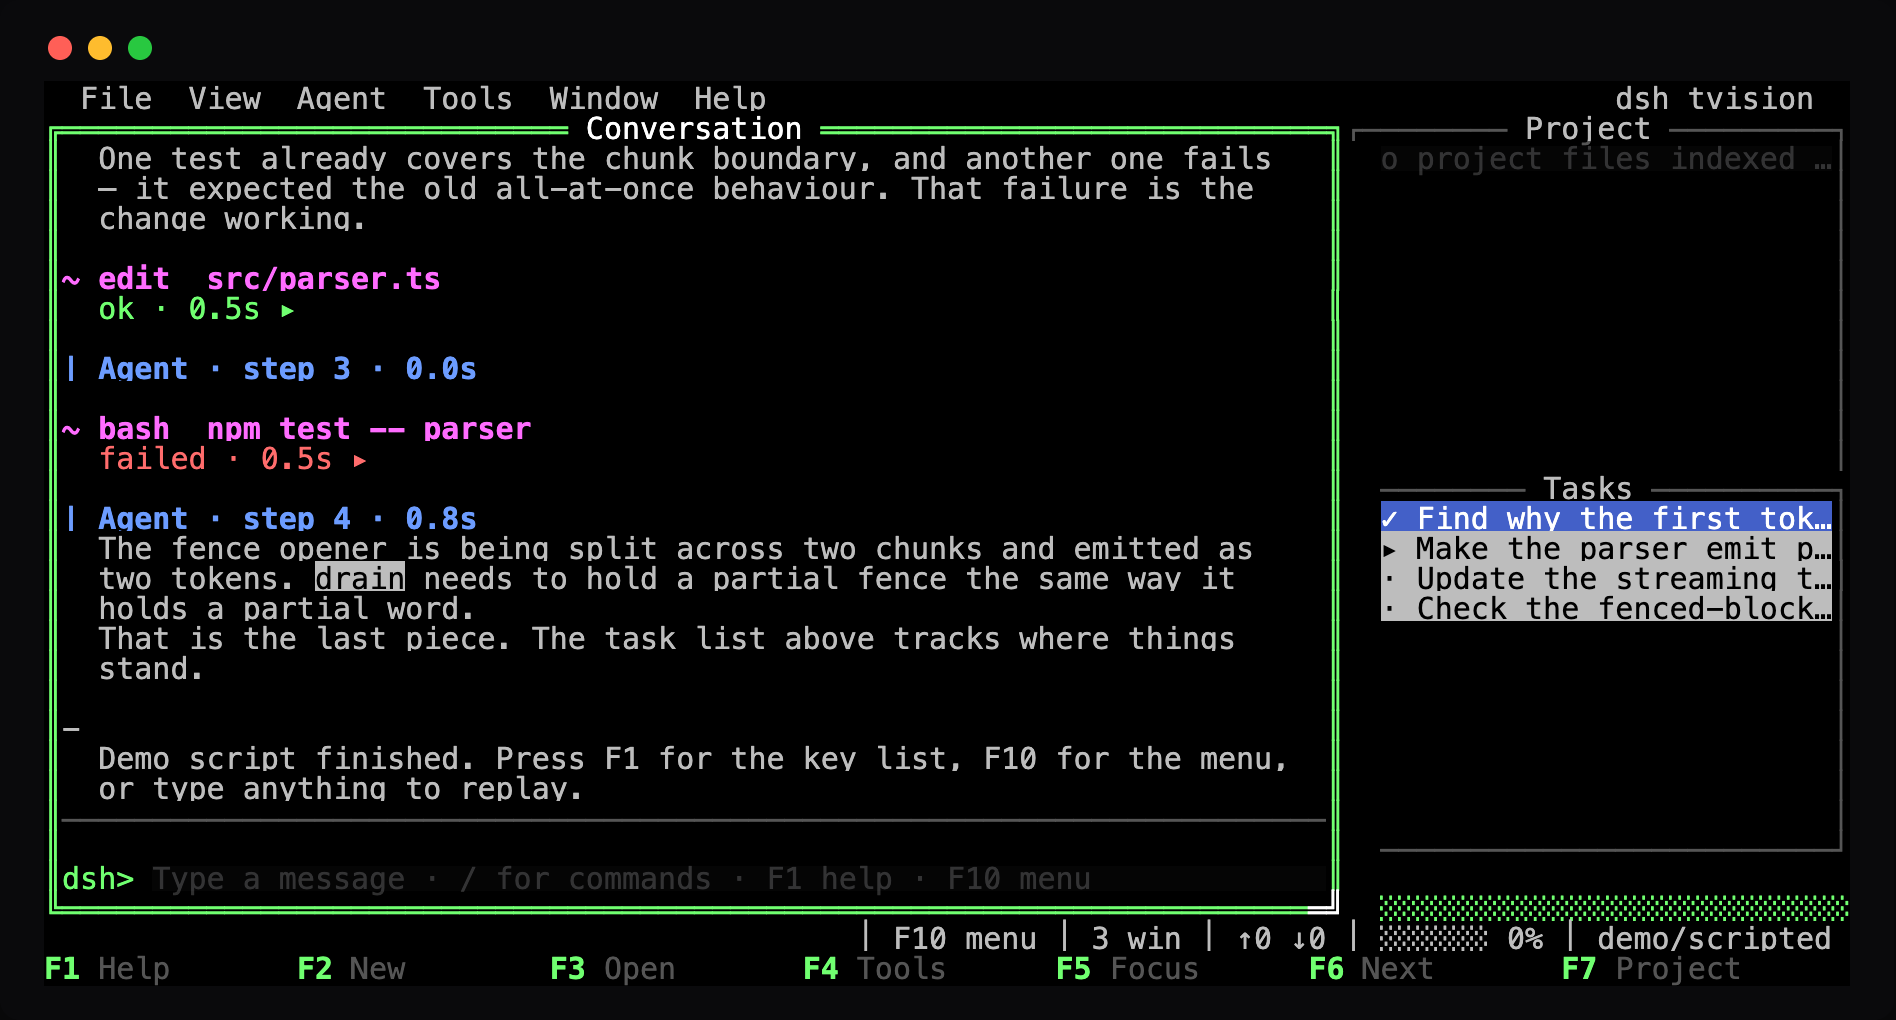
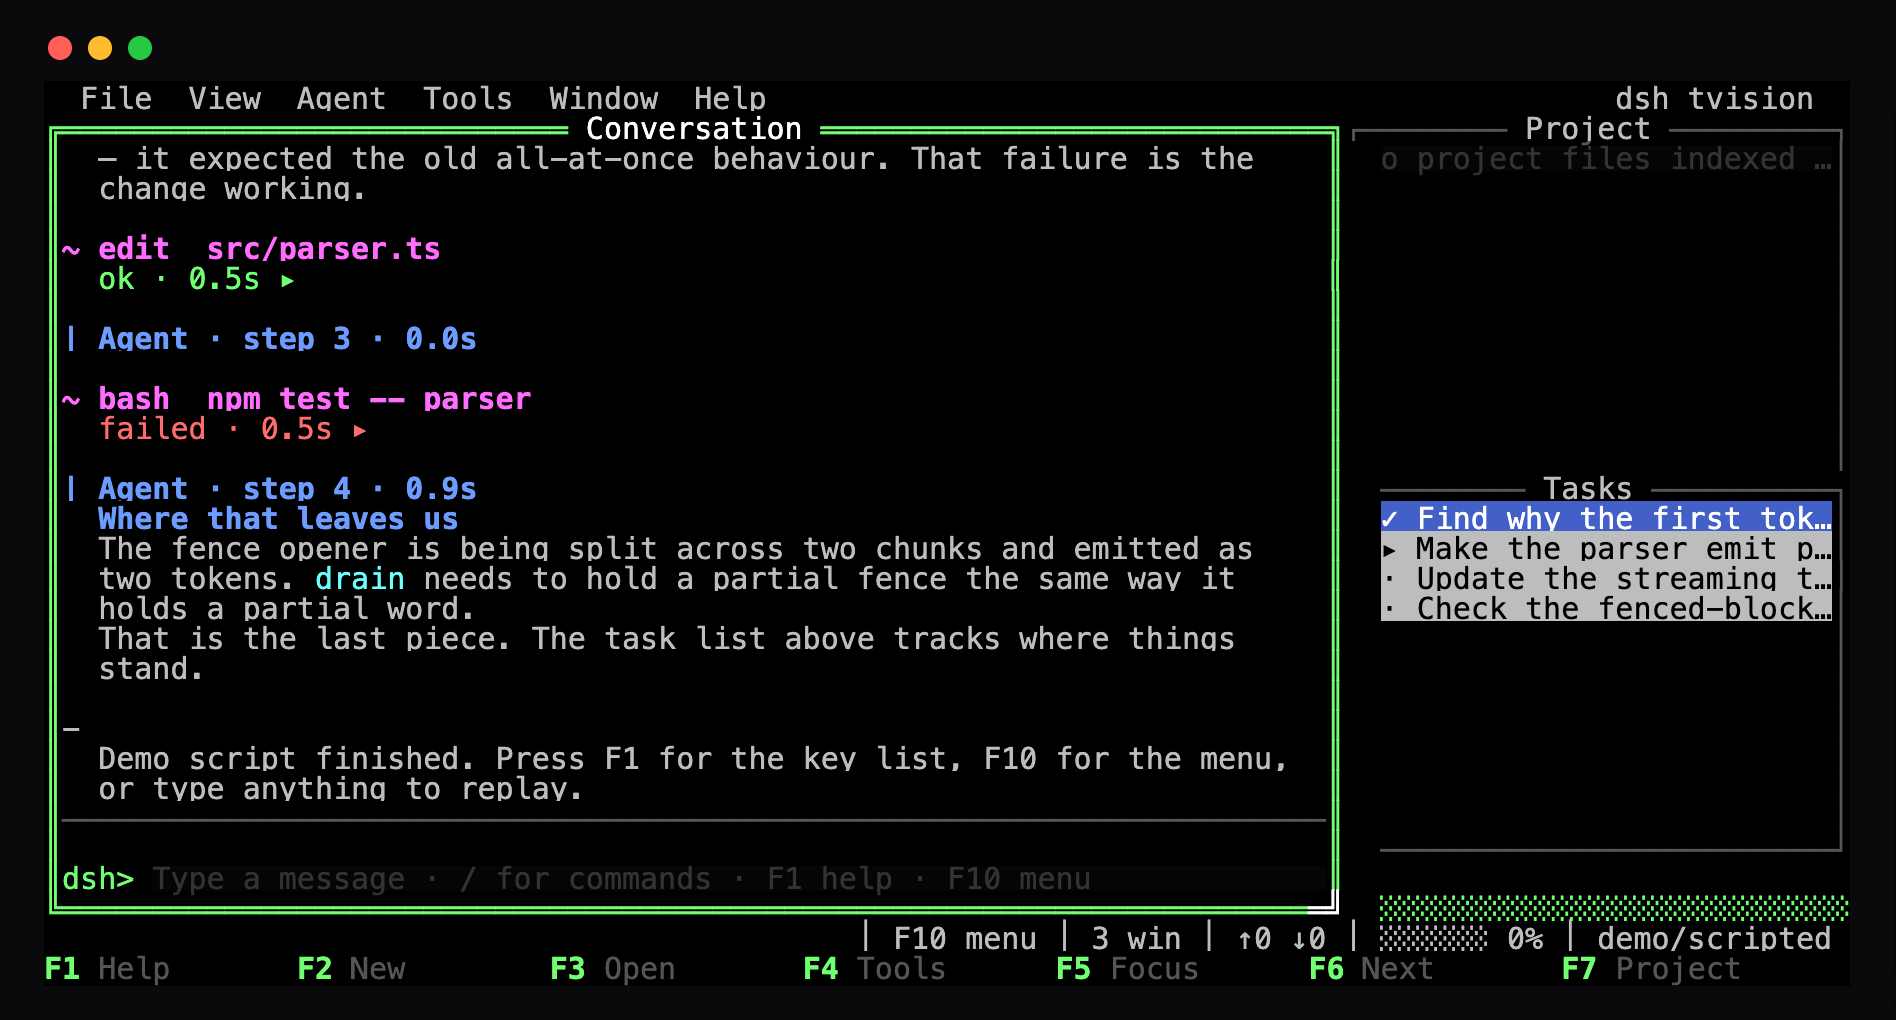
feat: markdown headings render as a colour ladder, not literal hashes
The old renderer styled h1/h2 with body-white bold and left h3+ carrying
their literal `###` on screen, so a heading was indistinguishable from a
bold lead-in beneath it and the marker read as unparsed markup. Headings
now wear a dedicated palette role — each skin picks its own structural
colour — descending by attribute: `##` underlines as a section, `###`
stands plain, deeper levels dim. Markers are dropped at every level, and
a heading mid-text gains a blank line before it.

The demo and the wire mock now carry headings so the recorded stills and
the README gif show the ladder end to end.

Changed region(s): [[0.0311, 0.1216, 0.6846, 0.5167], [0.1556, 0.5471, 0.2178, 0.5775]]

diff --git a/src/demo.ts b/src/demo.ts
@@ -85,7 +85,7 @@ type Beat =
 const SCRIPT: readonly Beat[] = [
   { kind: 'reasoning', text: 'They want the parser to stream. Let me look at how it buffers first. ' },
   { kind: 'reasoning', text: 'The whole document is read before the first token, so nothing can be emitted early.' },
-  { kind: 'text', text: "Right — the parser buffers the entire document before it emits anything, which is why the **first token** never arrives until the whole file is read.\n\nHere is the shape of the fix:\n\n```ts\nfor await (const chunk of source) {\n  buffer += chunk\n  for (const token of drain(buffer)) yield token\n}\n```\n\nThe plan, in order:\n\n1. read chunks as they arrive\n2. `drain(buffer)` emits complete tokens\n3. hold a partial token across a chunk boundary\n\n> A fence that straddles a chunk boundary is the hard part.\n\nLet me check what the tests expect before changing it.\n" },
+  { kind: 'text', text: "Right — the parser buffers the entire document before it emits anything, which is why the **first token** never arrives until the whole file is read.\n\nHere is the shape of the fix:\n\n```ts\nfor await (const chunk of source) {\n  buffer += chunk\n  for (const token of drain(buffer)) yield token\n}\n```\n\n## The plan\n\n1. read chunks as they arrive\n2. `drain(buffer)` emits complete tokens\n3. hold a partial token across a chunk boundary\n\n> A fence that straddles a chunk boundary is the hard part.\n\nLet me check what the tests expect before changing it.\n" },
   { kind: 'tool', name: 'bash', args: '{"command":"npm test -- parser","timeout":120000}', result: 'PASS tests/parser.spec.ts\n  ✓ emits a token as soon as one is complete (12 ms)\n  ✓ holds a partial token across a chunk boundary (3 ms)\n  ✗ streams a fenced block (8 ms)\n\nTests: 1 failed, 2 passed, 3 total' },
   { kind: 'text', text: '\nOne test already covers the chunk boundary, and another one fails — it expected the old all-at-once behaviour. That failure is the change working.\n' },
   { kind: 'tool', name: 'edit', args: '{"path":"src/parser.ts","old_string":"const whole = await readAll(source)","new_string":"for await (const chunk of source)"}', result: 'Edited src/parser.ts', diff: ['@@ -42,7 +42,9 @@ export async function parse(source) {', '-  const whole = await readAll(source)', '-  return tokenize(whole)', '+  for await (const chunk of source) {', '+    buffer += chunk', '+    yield* drain(buffer)', '+  }', ' }'] },
@@ -96,7 +96,7 @@ const SCRIPT: readonly Beat[] = [
     { text: 'Check the fenced-block case', status: 'pending' },
   ] },
   { kind: 'tool', name: 'bash', args: '{"command":"npm test -- parser"}', result: 'Error: 1 test failed\n  ✗ streams a fenced block (8 ms)\n    expected ["```", "ts"] to equal ["```ts"]' },
-  { kind: 'text', text: '\nThe fence opener is being split across two chunks and emitted as two tokens. `drain` needs to hold a partial fence the same way it holds a partial word.\n\nThat is the last piece. The task list above tracks where things stand.\n' },
+  { kind: 'text', text: '\n### Where that leaves us\n\nThe fence opener is being split across two chunks and emitted as two tokens. `drain` needs to hold a partial fence the same way it holds a partial word.\n\nThat is the last piece. The task list above tracks where things stand.\n' },
   { kind: 'notice', text: 'Demo script finished. Press F1 for the key list, F10 for the menu, or type anything to replay.' },
 ]
 

diff --git a/src/kit/skin.ts b/src/kit/skin.ts
@@ -114,6 +114,8 @@ export interface Palette {
   assistantLabel: Pair
   /** Transcript: ordinary assistant prose. */
   bodyText: Pair
+  /** Transcript: markdown section headings. */
+  heading: Pair
   /** Transcript: the model's reasoning. */
   reasoning: Pair
   /** Transcript: tool-call header rows. */
@@ -159,7 +161,7 @@ export const PALETTE_ROLES = [
   'inputFrame', 'inputFrameActive', 'inputBody', 'inputPrompt', 'inputHint',
   'dialogStatic', 'dialogFocused', 'dialogDefault',
   'listNormal', 'listFocused', 'listSelected', 'listDisabled',
-  'userLabel', 'assistantLabel', 'bodyText', 'reasoning',
+  'userLabel', 'assistantLabel', 'bodyText', 'heading', 'reasoning',
   'toolHeader', 'toolBody', 'toolRunning', 'toolSuccess', 'toolError',
   'diffAdded', 'diffRemoved', 'diffMeta', 'code', 'notice', 'warning', 'error',
   'accent', 'searchHit', 'searchHitDim',
@@ -204,7 +206,8 @@ export function resolvePalette(skin: Skin): ResolvedPalette {
     const pair = skin.palette[role]
     const style: Style = { fg: pair.fg, bg: pair.bg }
     if (role === 'menuShortcut' || role === 'statusKey' || role === 'userLabel'
-      || role === 'assistantLabel' || role === 'toolHeader' || role === 'accent') {
+      || role === 'assistantLabel' || role === 'toolHeader' || role === 'accent'
+      || role === 'heading') {
       style.bold = true
     }
     if (role === 'reasoning' || role === 'inputHint' || role === 'menuDisabled'
@@ -272,6 +275,7 @@ export const TURBO_VISION: Skin = {
     userLabel: { fg: 0x55FF55, bg: 0x0000A8 },
     assistantLabel: { fg: 0x55FFFF, bg: 0x0000A8 },
     bodyText: { fg: 0xFFFFFF, bg: 0x0000A8 },
+    heading: { fg: 0x55FFFF, bg: 0x0000A8 },
     reasoning: { fg: 0x8A8A8A, bg: 0x0000A8 },
     toolHeader: { fg: 0xFFFF55, bg: 0x0000A8 },
     toolBody: { fg: 0xAAAAAA, bg: 0x0000A8 },
@@ -341,6 +345,7 @@ export const PHOSPHOR: Skin = {
     userLabel: { fg: 0x99FFBB, bg: 0x001A0A },
     assistantLabel: { fg: 0x66FF99, bg: 0x001A0A },
     bodyText: { fg: 0x33FF66, bg: 0x001A0A },
+    heading: { fg: 0x99FFBB, bg: 0x001A0A },
     reasoning: { fg: 0x22AA44, bg: 0x001A0A },
     toolHeader: { fg: 0x99FFBB, bg: 0x001A0A },
     toolBody: { fg: 0x33FF66, bg: 0x001A0A },
@@ -409,6 +414,7 @@ export const AMBER: Skin = {
     userLabel: { fg: 0xFFE0A0, bg: 0x1A0E00 },
     assistantLabel: { fg: 0xFFD070, bg: 0x1A0E00 },
     bodyText: { fg: 0xFFB000, bg: 0x1A0E00 },
+    heading: { fg: 0xFFE0A0, bg: 0x1A0E00 },
     reasoning: { fg: 0xAA7000, bg: 0x1A0E00 },
     toolHeader: { fg: 0xFFE0A0, bg: 0x1A0E00 },
     toolBody: { fg: 0xFFB000, bg: 0x1A0E00 },
@@ -476,6 +482,7 @@ export const SLATE: Skin = {
     userLabel: { fg: 0x7EE787, bg: 0x15171C },
     assistantLabel: { fg: 0x58A6FF, bg: 0x15171C },
     bodyText: { fg: 0xE6EDF3, bg: 0x15171C },
+    heading: { fg: 0x58A6FF, bg: 0x15171C },
     reasoning: { fg: 0x8B949E, bg: 0x15171C },
     toolHeader: { fg: 0xD2A8FF, bg: 0x15171C },
     toolBody: { fg: 0xA8B1C0, bg: 0x15171C },
@@ -552,6 +559,7 @@ export const ANSI: Skin = {
     userLabel: { fg: 10, bg: 0 },
     assistantLabel: { fg: 12, bg: 0 },
     bodyText: { fg: 7, bg: 0 },
+    heading: { fg: 12, bg: 0 },
     reasoning: { fg: 8, bg: 0 },
     toolHeader: { fg: 13, bg: 0 },
     toolBody: { fg: 7, bg: 0 },

diff --git a/src/views/markdown.ts b/src/views/markdown.ts
@@ -9,7 +9,9 @@
  * conventions terminal renderers converged on (pi's TUI, glamour, Claude
  * Code): structure is expressed with attributes — bold, underline — because
  * attributes survive every skin, and colour is spent where it says something
- * (an inline code span wears the palette's code colour, not an inverse bar).
+ * (an inline code span wears the palette's code colour, not an inverse bar; a
+ * heading wears the palette's heading colour with a descending attribute
+ * ladder, because a bold lead-in in the body must never outrank a heading).
  *
  * Two properties are load-bearing:
  *
@@ -62,6 +64,11 @@ export function markdownRows(
   if (width <= 0) return [{ text: '', segments: [{ text: '', style: base }] }]
   const rows: MdRow[] = []
   for (const block of parseBlocks(text)) {
+    // A heading is a break in the prose; give it a blank line of air unless
+    // it opens the text, where a leading blank would float it off the top.
+    if (block.kind === 'heading' && rows.length > 0) {
+      rows.push({ text: '', segments: [{ text: '', style: base }] })
+    }
     rows.push(...blockRows(block, width, base, palette))
   }
   return rows
@@ -455,11 +462,18 @@ function matchSpan(rest: string, opener: string, before?: string, closeIndexHint
 function blockRows(block: Block, width: number, base: Style, palette: ResolvedPalette): MdRow[] {
   switch (block.kind) {
     case 'heading': {
-      const style = block.level === 1
-        ? { ...base, bold: true, underline: true }
-        : { ...base, bold: true }
-      const source = block.level >= 3 ? `${'#'.repeat(block.level)} ${block.text}` : block.text
-      return wrapSegments(parseInline(source, style, palette.code), width).map(toRow)
+      // The ladder is one colour descending by attribute: `##` underlines as
+      // a section, `###` stands plain, the rare deeper level dims. Two
+      // properties are the point — the heading must outrank any bold lead-in
+      // in the body beneath it, which another weight of body white could
+      // never do, and the markers themselves are dropped, because a literal
+      // `###` on screen reads as unparsed markup rather than as a level.
+      const style = block.level <= 2
+        ? { ...palette.heading, underline: true }
+        : block.level === 3
+          ? palette.heading
+          : { ...palette.heading, dim: true }
+      return wrapSegments(parseInline(block.text, style, palette.code), width).map(toRow)
     }
     case 'hr':
       return [{ text: '─'.repeat(width), segments: [{ text: '─'.repeat(width), style: base }] }]

diff --git a/tests/markdown.spec.ts b/tests/markdown.spec.ts
@@ -17,10 +17,26 @@ const code = palette.code
 const rowsOf = (text: string, width = 60): string[] => markdownRows(text, width, base, palette).map(row => row.text)
 
 describe('block parsing', () => {
-  it('headings strip hashes at h1/h2 and keep them from h3', () => {
+  it('headings drop their markers at every level', () => {
     expect(rowsOf('# Ship it')).toEqual(['Ship it'])
     expect(rowsOf('## Ship it')).toEqual(['Ship it'])
-    expect(rowsOf('### Deep')).toEqual(['### Deep'])
+    expect(rowsOf('### Deep')).toEqual(['Deep'])
+    expect(rowsOf('#### Deeper')).toEqual(['Deeper'])
+  })
+
+  it('headings descend by attribute on the heading colour', () => {
+    const [h2] = markdownRows('## One', 60, base, palette)
+    const [h3] = markdownRows('### Two', 60, base, palette)
+    const [h4] = markdownRows('#### Three', 60, base, palette)
+    expect(h2?.segments[0]?.style).toMatchObject({ fg: palette.heading.fg, bold: true, underline: true })
+    expect(h3?.segments[0]?.style).toMatchObject({ fg: palette.heading.fg, bold: true })
+    expect(h3?.segments[0]?.style.underline).toBeUndefined()
+    expect(h4?.segments[0]?.style).toMatchObject({ fg: palette.heading.fg, bold: true, dim: true })
+  })
+
+  it('a heading mid-text gains a blank line before it; an opening one does not', () => {
+    expect(rowsOf('body first\n\n## One')).toEqual(['body first', '', 'One'])
+    expect(rowsOf('## One\n\nbody')).toEqual(['One', 'body'])
   })
 
   it('rules render to the measure under all three spellings', () => {
